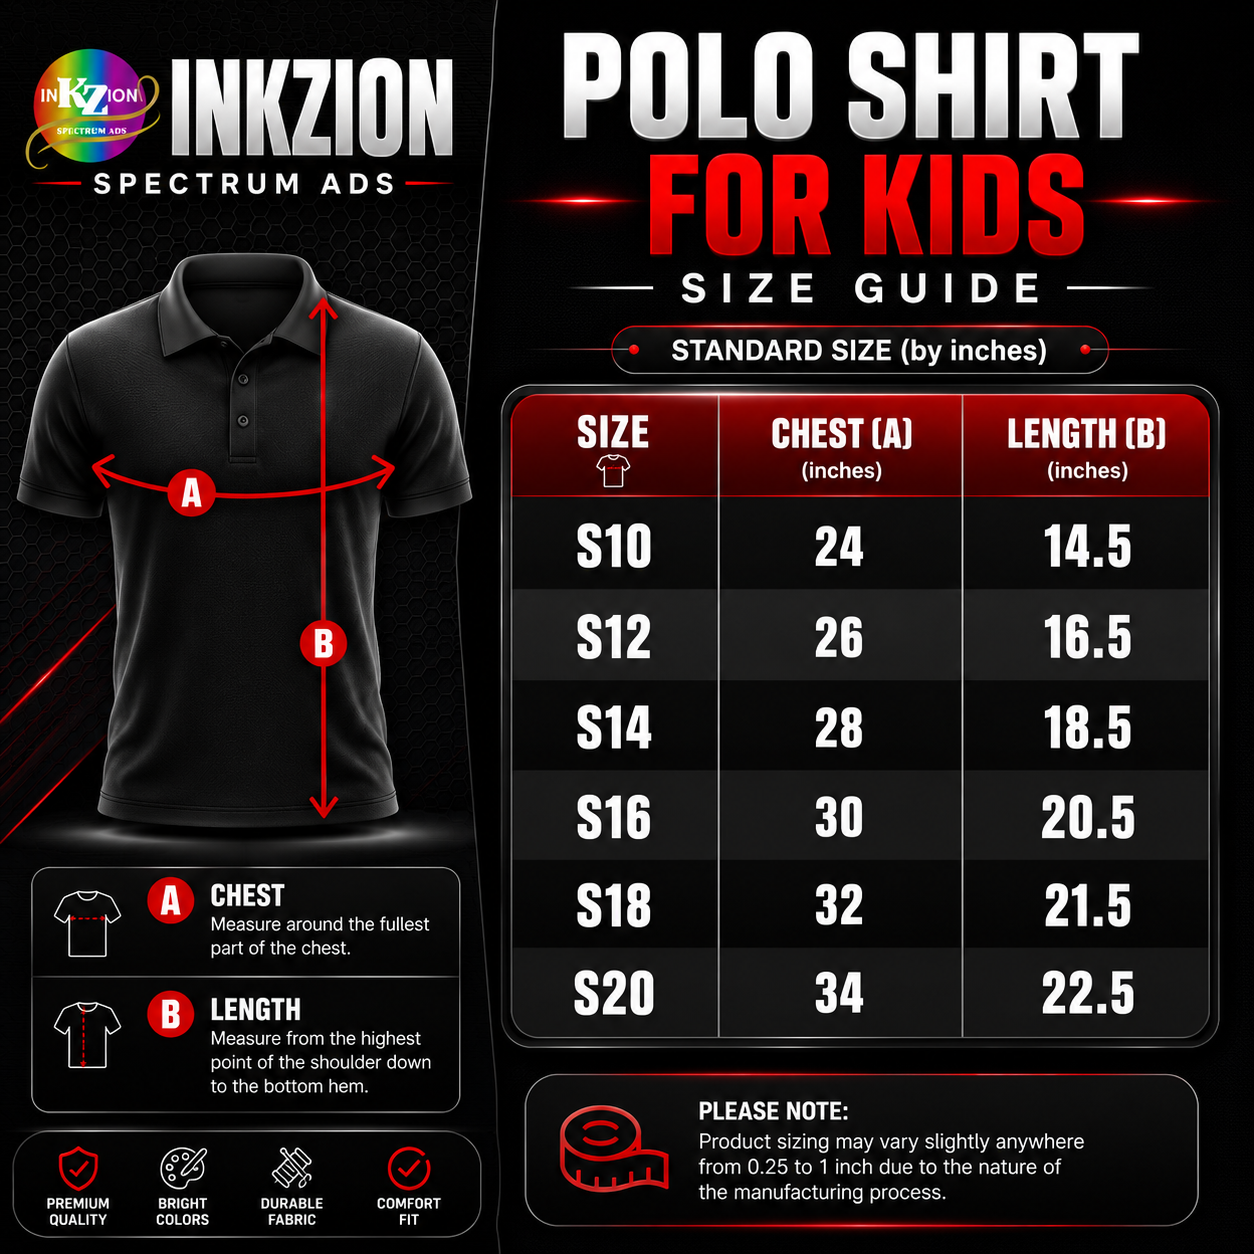
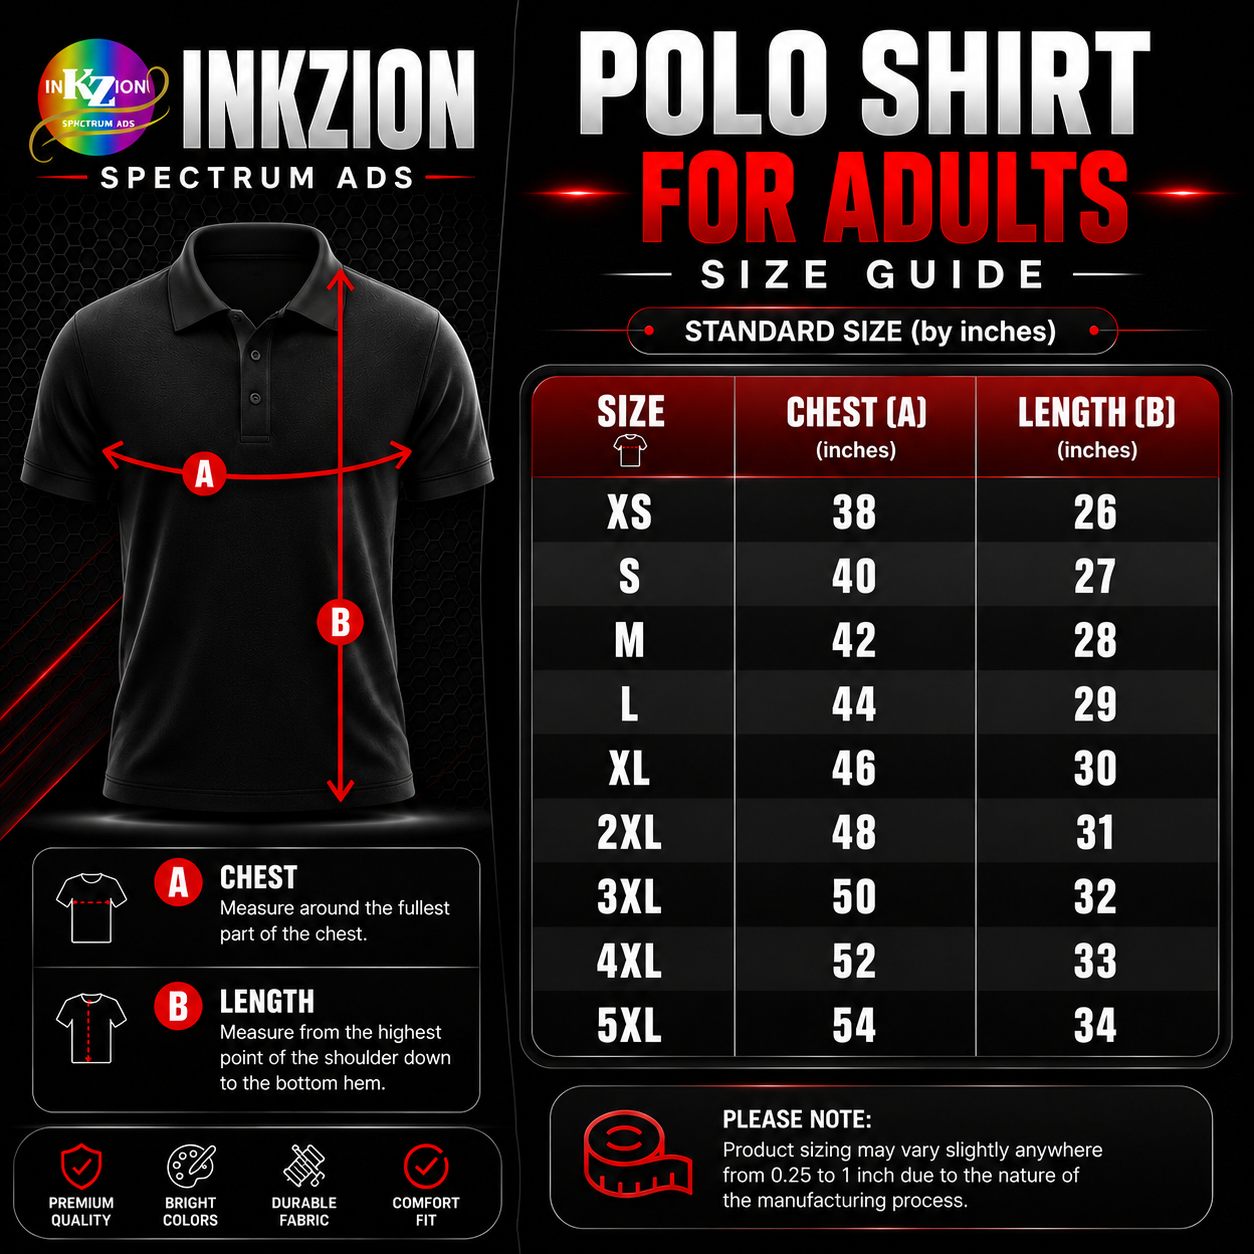
sizing akong giusab

Changed region(s): [[0.0, 0.0, 0.9952, 0.9952], [0.7464, 0.4354, 0.7775, 0.5909]]

diff --git a/portfolio-images.html b/portfolio-images.html
@@ -4,7 +4,7 @@
   <meta charset="UTF-8">
   <meta name="viewport" content="width=device-width, initial-scale=1.0">
   <title>Image Gallery - InKZion Spectrum Ads</title>
-  <meta name="description" content="Browse 35 completed print projects including apparel, signage, marketing materials, and merchandise.">
+  <meta name="description" content="Browse 32 completed print projects including apparel, signage, marketing materials, and merchandise.">
   <link rel="preconnect" href="https://fonts.googleapis.com">
   <link rel="preconnect" href="https://fonts.gstatic.com" crossorigin>
   <link href="https://fonts.googleapis.com/css2?family=Inter:wght@400;600;700;800&family=DM+Sans:wght@400;500;600;700&display=swap" rel="stylesheet">
@@ -35,7 +35,7 @@
   <section class="page-hero">
     <div class="container">
       <h1>Image Gallery</h1>
-      <p>Browse 35 completed print projects across apparel, signage, marketing materials, and merchandise</p>
+      <p>Browse 32 completed print projects across apparel, signage, marketing materials, and merchandise</p>
       <div class="breadcrumb">
         <a href="index.html">Home</a><span>/</span><a href="portfolio.html">Portfolio</a><span>/</span><span class="current">Image Gallery</span>
       </div>
@@ -64,7 +64,7 @@
             <img src="images/gallery/apparel/apparel-display-1.jpg" alt="Apparel Showcase" loading="lazy">
             <div class="strip-label">Apparel Showcase</div>
           </div>
-          <div class="strip-item" data-index="18">
+          <div class="strip-item" data-index="15">
             <img src="images/gallery/standee/standee-2.jpg" alt="Sintra Board Display" loading="lazy">
             <div class="strip-label">Sintra Board Display</div>
           </div>
@@ -72,19 +72,19 @@
             <img src="images/gallery/apparel/tshirt-pickleball-1.jpg" alt="Pickleball T-Shirt" loading="lazy">
             <div class="strip-label">Pickleball T-Shirt</div>
           </div>
-          <div class="strip-item" data-index="34">
+          <div class="strip-item" data-index="31">
             <img src="images/gallery/cap/giveaways-1.png" alt="Promotional Giveaways" loading="lazy">
             <div class="strip-label">Promotional Giveaways</div>
           </div>
-          <div class="strip-item" data-index="23">
+          <div class="strip-item" data-index="20">
             <img src="images/gallery/businesscard/businesscard-1.jpg" alt="Business Cards" loading="lazy">
             <div class="strip-label">Business Cards</div>
           </div>
-          <div class="strip-item" data-index="27">
+          <div class="strip-item" data-index="24">
             <img src="images/gallery/flyers-brochures/flyers-1.jpg" alt="Promotional Flyers" loading="lazy">
             <div class="strip-label">Promotional Flyers</div>
           </div>
-          <div class="strip-item" data-index="26">
+          <div class="strip-item" data-index="23">
             <img src="images/gallery/flyers-brochures/brochures-1.jpg" alt="Brochures" loading="lazy">
             <div class="strip-label">Brochures</div>
           </div>
@@ -191,30 +191,9 @@
             <span>Pickleball Collection</span>
           </div>
         </div>
-        <div class="gallery-item" data-category="apparel" data-aos="fade-up">
-          <img src="images/gallery/apparel/poloshirt-size.png" alt="Polo Shirt Size Chart" loading="lazy">
-          <div class="gallery-overlay">
-            <span class="gallery-badge">Apparel</span>
-            <span>Polo Shirt Size Chart</span>
-          </div>
-        </div>
-        <div class="gallery-item" data-category="apparel" data-aos="fade-up">
-          <img src="images/gallery/apparel/tshirt-size.png" alt="T-Shirt Size Chart" loading="lazy">
-          <div class="gallery-overlay">
-            <span class="gallery-badge">Apparel</span>
-            <span>T-Shirt Size Chart</span>
-          </div>
-        </div>
-        <div class="gallery-item" data-category="apparel" data-aos="fade-up">
-          <img src="images/gallery/apparel/varsity-size.png" alt="Varsity Size Chart" loading="lazy">
-          <div class="gallery-overlay">
-            <span class="gallery-badge">Apparel</span>
-            <span>Varsity Size Chart</span>
-          </div>
-        </div>
         
         
-        
+
         <div class="gallery-item" data-category="signage" data-aos="fade-up">
           <img src="images/gallery/standee/standee-1.jpg" alt="Standee 1" loading="lazy">
           <div class="gallery-overlay">

diff --git a/css/style.css b/css/style.css
@@ -1111,6 +1111,62 @@ ul {
   color: var(--color-white);
 }
 
+/* ===== SIZE GUIDE ===== */
+.size-guide {
+  margin-top: 60px;
+  padding-top: 40px;
+  border-top: 1px solid var(--color-border);
+}
+
+.size-guide-grid {
+  display: grid;
+  grid-template-columns: repeat(3, 1fr);
+  gap: 24px;
+  max-width: 900px;
+  margin: 0 auto;
+}
+
+.size-guide-item {
+  border-radius: var(--radius-lg);
+  overflow: hidden;
+  border: 1px solid var(--color-border);
+  background: var(--color-bg-alt);
+  cursor: pointer;
+  transition: border-color 0.3s ease, box-shadow 0.3s ease;
+}
+
+.size-guide-item:hover {
+  border-color: var(--color-gold);
+  box-shadow: 0 0 0 2px var(--color-gold), var(--shadow-lg);
+}
+
+.size-guide-item img {
+  width: 100%;
+  display: block;
+  aspect-ratio: 3/4;
+  object-fit: contain;
+  padding: 20px;
+  background: var(--color-white);
+}
+
+.size-guide-label {
+  display: block;
+  text-align: center;
+  padding: 12px;
+  font-weight: 600;
+  font-size: 0.9rem;
+  color: var(--color-text);
+  border-top: 1px solid var(--color-border);
+  background: var(--color-white);
+}
+
+@media (max-width: 768px) {
+  .size-guide-grid {
+    grid-template-columns: 1fr;
+    max-width: 400px;
+  }
+}
+
 /* ===== PRODUCT DETAIL ===== */
 .product-detail {
   padding: 80px 0;
@@ -2397,7 +2453,71 @@ ul {
   right: 20px;
 }
 
+/* ===== SIZE GUIDE VIEWER ===== */
+.size-viewer {
+  position: fixed;
+  inset: 0;
+  background: rgba(0, 0, 0, 0.92);
+  z-index: 10000;
+  display: flex;
+  align-items: center;
+  justify-content: center;
+  opacity: 0;
+  visibility: hidden;
+  transition: opacity 0.3s ease, visibility 0.3s ease;
+  padding: 40px;
+  cursor: zoom-out;
+}
+
+.size-viewer.open {
+  opacity: 1;
+  visibility: visible;
+}
+
+.size-viewer img {
+  max-width: 95vw;
+  max-height: 90vh;
+  object-fit: contain;
+  border-radius: var(--radius-md);
+  user-select: none;
+}
+
+.size-viewer-close {
+  position: absolute;
+  top: 20px;
+  right: 20px;
+  background: rgba(255, 255, 255, 0.08);
+  border: none;
+  color: rgba(255, 255, 255, 0.7);
+  width: 44px;
+  height: 44px;
+  border-radius: 50%;
+  font-size: 1.6rem;
+  cursor: pointer;
+  display: flex;
+  align-items: center;
+  justify-content: center;
+  transition: var(--transition);
+  z-index: 1;
+}
+
+.size-viewer-close:hover {
+  color: var(--color-white);
+  background: rgba(255, 255, 255, 0.15);
+}
+
 @media (max-width: 768px) {
+  .size-viewer {
+    padding: 16px;
+  }
+  .size-viewer-close {
+    top: 12px;
+    right: 12px;
+    width: 36px;
+    height: 36px;
+    font-size: 1.3rem;
+  }
+}
   .lightbox {
     padding: 20px;
   }

diff --git a/products.html b/products.html
@@ -64,6 +64,40 @@
       </div>
       <div class="products-grid" id="productsContainer" data-aos="fade-up" data-aos-delay="100">
       </div>
+
+      <div class="size-guide" data-aos="fade-up">
+        <div class="section-header">
+          <span class="section-tag">Sizing</span>
+          <h2 class="section-title">Apparel Size Guide</h2>
+          <p class="section-subtitle">Refer to our size charts to find the perfect fit for your custom apparel.</p>
+        </div>
+        <div class="size-guide-grid">
+          <div class="size-guide-item" onclick="openSizeViewer(this.querySelector('img'))">
+            <img src="images/gallery/apparel/poloshirt-size.png" alt="Polo Shirt Size Chart" loading="lazy">
+            <span class="size-guide-label">Polo Shirt</span>
+          </div>
+          <div class="size-guide-item" onclick="openSizeViewer(this.querySelector('img'))">
+            <img src="images/gallery/apparel/tshirt-size.png" alt="T-Shirt Size Chart" loading="lazy">
+            <span class="size-guide-label">T-Shirt</span>
+          </div>
+          <div class="size-guide-item" onclick="openSizeViewer(this.querySelector('img'))">
+            <img src="images/gallery/apparel/varsity-size.png" alt="Varsity Size Chart" loading="lazy">
+            <span class="size-guide-label">Varsity Jacket</span>
+          </div>
+          <div class="size-guide-item" onclick="openSizeViewer(this.querySelector('img'))">
+            <img src="images/gallery/apparel/jersey-upper-size.png" alt="Jersey Upper Size Chart" loading="lazy">
+            <span class="size-guide-label">Jersey Upper</span>
+          </div>
+          <div class="size-guide-item" onclick="openSizeViewer(this.querySelector('img'))">
+            <img src="images/gallery/apparel/jersey-lower-size.png" alt="Jersey Lower Size Chart" loading="lazy">
+            <span class="size-guide-label">Jersey Lower</span>
+          </div>
+          <div class="size-guide-item" onclick="openSizeViewer(this.querySelector('img'))">
+            <img src="images/gallery/apparel/longsleeve-size.png" alt="Longsleeve Size Chart" loading="lazy">
+            <span class="size-guide-label">Longsleeve</span>
+          </div>
+        </div>
+      </div>
     </div>
   </section>
 

diff --git a/js/main.js b/js/main.js
@@ -166,8 +166,36 @@ document.addEventListener('DOMContentLoaded', () => {
           } else {
             item.style.display = 'none';
           }
-        });
-      });
+  });
+});
+
+// ===== SIZE GUIDE VIEWER =====
+function openSizeViewer(imgEl) {
+  const overlay = document.createElement('div');
+  overlay.className = 'size-viewer';
+  overlay.innerHTML = `
+    <button class="size-viewer-close" aria-label="Close">&times;</button>
+    <img src="${imgEl.getAttribute('src')}" alt="${imgEl.getAttribute('alt') || ''}">
+  `;
+  overlay.addEventListener('click', (e) => {
+    if (e.target === overlay || e.target.closest('.size-viewer-close')) {
+      overlay.classList.remove('open');
+      overlay.addEventListener('transitionend', () => overlay.remove(), { once: true });
+      document.body.style.overflow = '';
+    }
+  });
+  document.addEventListener('keydown', function escHandler(e) {
+    if (e.key === 'Escape') {
+      overlay.classList.remove('open');
+      overlay.addEventListener('transitionend', () => overlay.remove(), { once: true });
+      document.body.style.overflow = '';
+      document.removeEventListener('keydown', escHandler);
+    }
+  });
+  document.body.appendChild(overlay);
+  document.body.style.overflow = 'hidden';
+  requestAnimationFrame(() => overlay.classList.add('open'));
+}
     });
   }
 

diff --git a/portfolio.html b/portfolio.html
@@ -56,7 +56,7 @@
           <div class="portfolio-card-content">
             <div class="portfolio-card-icon"><i class="fas fa-image"></i></div>
             <h3 class="portfolio-card-title">Image Gallery</h3>
-            <p class="portfolio-card-desc">Browse 35 print projects across apparel, signage, marketing materials, and merchandise.</p>
+            <p class="portfolio-card-desc">Browse 32 print projects across apparel, signage, marketing materials, and merchandise.</p>
             <span class="portfolio-card-cta">View Gallery <i class="fas fa-arrow-right"></i></span>
           </div>
         </a>

diff --git a/index.html b/index.html
@@ -168,7 +168,7 @@
           <div class="bento-overlay"></div>
           <div class="bento-content">
             <span class="bento-badge">Apparel</span>
-            <span class="bento-count">20 Items</span>
+            <span class="bento-count">17 Items</span>
           </div>
         </a>
         <a href="portfolio-images.html" class="bento-cell">
